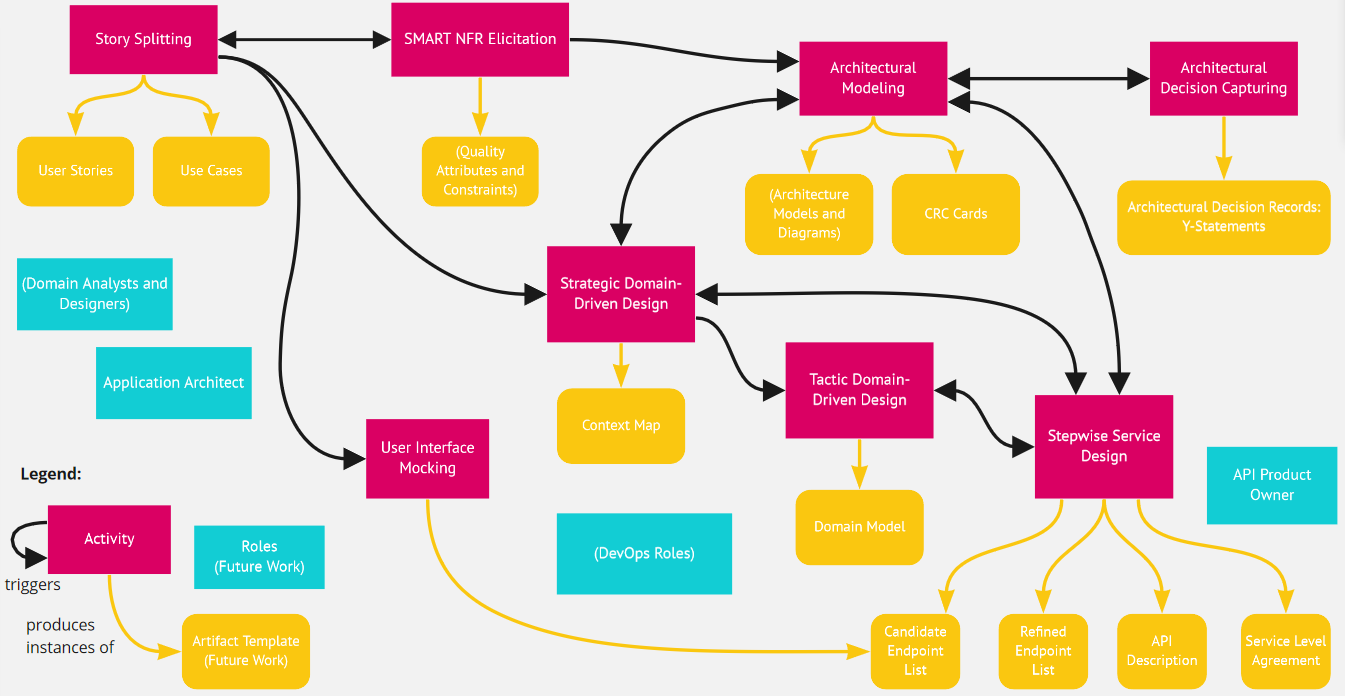
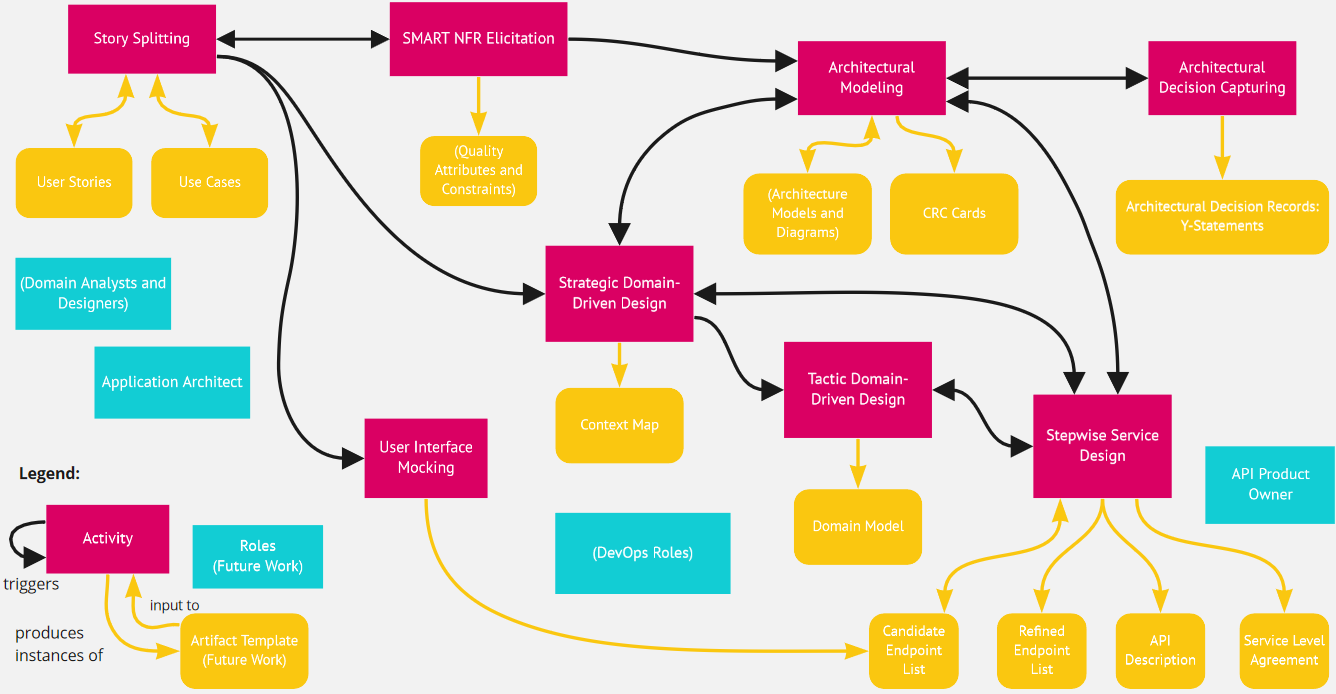
index, introduction from master

diff --git a/introduction.md b/introduction.md
@@ -1,5 +1,5 @@
 <!--
-# SPDX-FileCopyrightText: 2020 Copyright Olaf Zimmermann https://ozimmer.ch/about/
+# SPDX-FileCopyrightText: 2021 Copyright Olaf Zimmermann https://ozimmer.ch/about/
 #
 # SPDX-License-Identifier: CC-BY-4.0
 -->
@@ -23,11 +23,11 @@ This repository targets the following software engineering roles, ordered from s
 
 ## Overview and Quick Links
 
-As explained in [this introductory blog post](https://medium.com/olzzio/design-practice-repository-dpr-ed5e9d0e91cd), DPR is organized around *artifacts*, *templates*, *activities* and *techniques* which are applied/performed/used by team members taking one or more software engineering *roles*:
+DPR is organized around *artifacts*, *templates*, *activities* and *techniques* which are applied/performed/used by team members taking one or more software engineering *roles*:
 
-<img class="shadow-lg" height="70%" width="70%" src="./images/DPR-MetamodelMiro.png" alt="DPR concepts visualized with miro"/>
+<img class="shadow-lg" height="70%" width="70%" src="./images/DPR-MetamodelMiro.png" alt="DPR Concepts (Domain Model)"/>
 
-<!-- not possible here (?): 
+<!-- 
 <object height="100%" width="100%" data="./images/DPR-MetamodelMiro.svg" alt="DPR concepts visualized with miro">
 </object>
 -->
@@ -38,7 +38,12 @@ DPR contains three types of method/practice elements:
 * Next up would be [activities and techniques](activities). You may want to start with our [Stepwise Service Design](activities/SDPR-StepwiseServiceDesign.md) practice.
 * Also there, but not very deeply populated are the [roles and personas](./roles): [Application Architect](roles/DPR-ApplicationArchitectRole.md), [API Product Owner](roles/SDPR-APIProductOwner.md).
 
-The [quick start tutorial](tutorials/DPR-Tutorial0.md) takes you through the repository structure in a small sample scenario. The deeper [API design tutorial](tutorials/DPR-Tutorial1.md) (in draft state) is a good starting point if you like to learn by example (and are willing to invest a little more time). <!-- Not there yet: [examples](./examples) --> 
+The activities and artifacts that we have collected so far are:
+<!-- source: https://miro.com/app/board/o9J_lN5KDw0=/ -->
+
+![DPR Activities, Artifacts and their dependencies](/images/DPR-ActivityArtifactDependencies.png)
+
+There is an [introductory blog post](https://medium.com/olzzio/design-practice-repository-dpr-ed5e9d0e91cd). And the [quick start tutorial](tutorials/DPR-Tutorial0.md) takes you through the repository structure in a small sample scenario. The deeper [API design tutorial](tutorials/DPR-Tutorial1.md) (in draft state) is a good starting point if you like to learn by example (and are willing to invest a little more time). <!-- Not there yet: [examples](./examples) --> 
 
 We also provide some [background information](./background-information) on methods and practices, including a [bibliography](/./background-information/literature.md).
 

diff --git a/index.md b/index.md
@@ -17,20 +17,17 @@ Activities:
 * [SMART NFR Elicitation](activities/DPR-SMART-NFR-Elicitation.md)
 * [Architectural Decision Capturing](activities/DPR-ArchitecturalDecisionCapturing.md)
 * [Stepwise Service Design](activities/SDPR-StepwiseServiceDesign.md) practice
-* to be continued
 
 Artifact templates:
 
 * [Y-shaped Architecture Decision Records (ADRs)](artifact-templates/DPR-ArchitecturalDecisionRecordYForm.md)
-* [API Description](artifact-templates/SDPR-APIDescription.md)
 * [Component, Responsibility, Collaborations (CRC) Cards](artifact-templates/DPR-CRCCard.md)
-* to be continued
+* [API Description](artifact-templates/SDPR-APIDescription.md)
 
 Roles:
 
 * [API Product Owner](roles/SDPR-APIProductOwner.md)
 * [Application Architect](roles/DPR-ApplicationArchitectRole.md)
-* to be continued
 
 <!--
 ### Preview (roadmap not confirmed yet)
